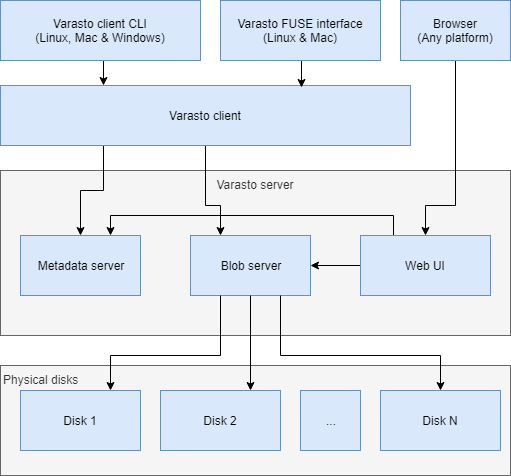
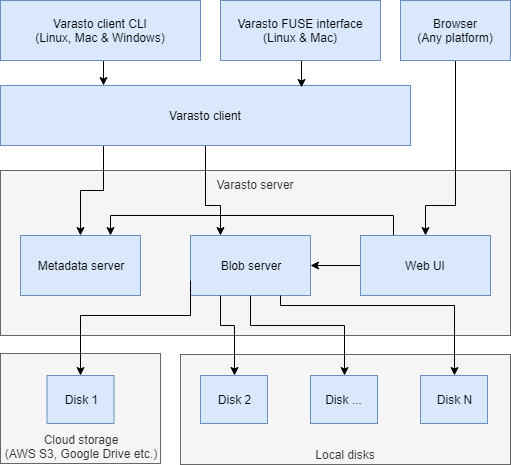
docs: update architecture drawing and mention CAS

diff --git a/docs/design_architecture-ideas-goals-inspired-by-comparison-to-similar-software.md b/docs/design_architecture-ideas-goals-inspired-by-comparison-to-similar-software.md
@@ -3,6 +3,10 @@ Architecture
 
 ![](architecture.png)
 
+Varasto is backed by a
+[Content-Addressable Storage](https://en.wikipedia.org/wiki/Content-addressable_storage)
+(CAS), which provides quite a few tricks like automatic integrity protection.
+
 
 Ideas / goals
 -------------
